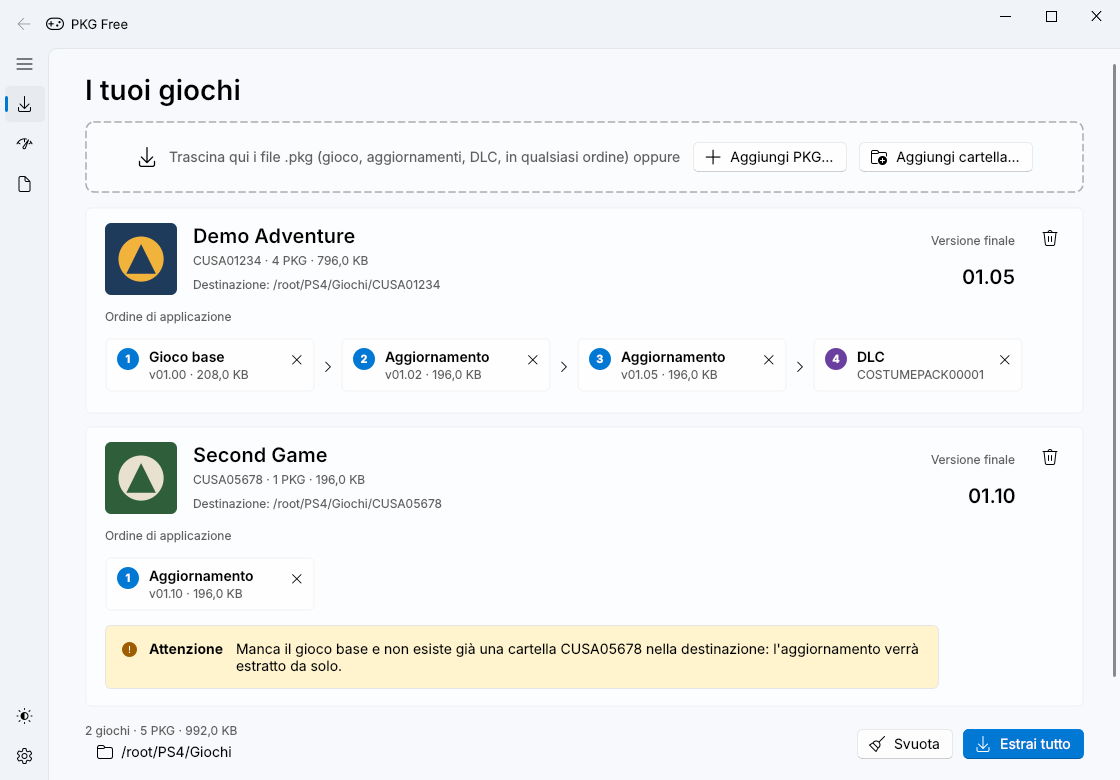
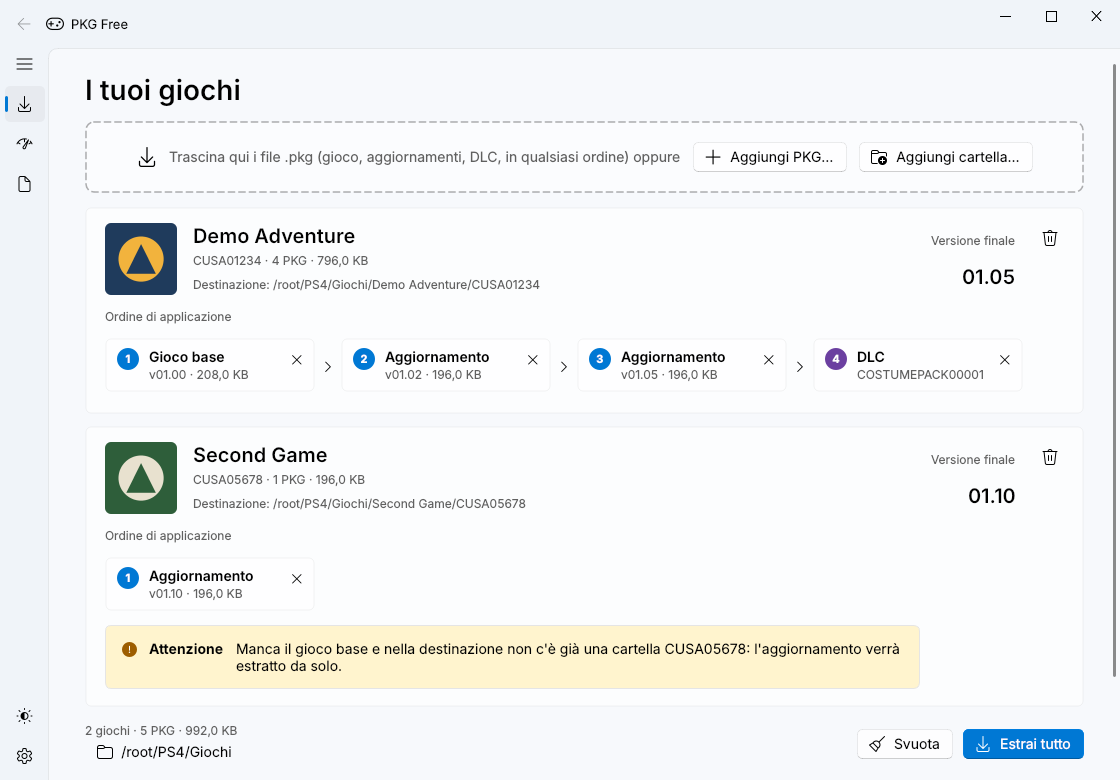
Put each game in a folder named after its title
New games are extracted to <games>/<title>/<TITLE_ID> (e.g.
Giochi/Driveclub/CUSA00003); shadPS4 scans subfolders and looks for
<game>-UPDATE next to the game folder, so it still finds both. Titles
are sanitised for Windows, Linux and macOS. A game already present
anywhere one level down (including the old <games>/<TITLE_ID> layout)
is reused, so updates never split a game in two. DLC keep shadPS4's
addcont/<TITLE_ID> layout. On by default; settings switch in the GUI
and --no-title-folder on the command line.

Also show Italian 'Attivo/Disattivo' on the settings switches, which
the library reset to 'On/Off' on every change.

Claude-Session: https://claude.ai/code/session_016d5jyj5MHJu7pfe2JRZaYf

diff --git a/pkgfree/installer.py b/pkgfree/installer.py
@@ -39,15 +39,50 @@ def _version_key(ver: str) -> tuple:
     return tuple(int(x) for x in re.findall(r"\d+", ver)) or (0,)
 
 
-def installed_version(games_dir: str, title_id: str) -> Optional[str]:
-    """APP_VER of the copy of title_id already in games_dir, if any.
+_INVALID_NAME_CHARS = re.compile(r'[<>"?*]')
+_WINDOWS_RESERVED = {"CON", "PRN", "AUX", "NUL", *(f"COM{i}" for i in range(1, 10)),
+                     *(f"LPT{i}" for i in range(1, 10))}
 
-    A separate update folder (as shadPS4 uses it) wins over the base folder.
-    """
+
+def safe_folder_name(title: str, fallback: str) -> str:
+    """A game title usable as a folder name on Windows, Linux and macOS."""
+    name = re.sub(r"[\x00-\x1f]", " ", title).replace(":", " -")
+    name = re.sub(r"[/\\|]", "-", name)
+    name = _INVALID_NAME_CHARS.sub("", name)
+    name = re.sub(r"\s+", " ", name).strip().rstrip(". ")[:80].rstrip(". ")
+    if not name:
+        return fallback
+    if name.upper() in _WINDOWS_RESERVED:
+        name += "_"
+    return name
+
+
+def find_game_dir(games_dir: str, title_id: str) -> Optional[str]:
+    """Folder of title_id already in games_dir: <games>/<ID> or <games>/<any name>/<ID>."""
     if not games_dir:
         return None
-    for folder in (f"{title_id}-UPDATE", f"{title_id}-patch", title_id):
-        sfo_path = os.path.join(games_dir, folder, "sce_sys", "param.sfo")
+    direct = os.path.join(games_dir, title_id)
+    if os.path.isdir(direct):
+        return direct
+    try:
+        entries = sorted(os.scandir(games_dir), key=lambda e: e.name)
+    except OSError:
+        return None
+    for entry in entries:
+        if entry.is_dir() and os.path.isdir(os.path.join(entry.path, title_id)):
+            return os.path.join(entry.path, title_id)
+    return None
+
+
+def installed_version(game_dir: Optional[str]) -> Optional[str]:
+    """APP_VER of the game installed in game_dir, if any.
+
+    A separate update folder next to it (as shadPS4 uses it) wins over the base folder.
+    """
+    if not game_dir:
+        return None
+    for folder in (f"{game_dir}-UPDATE", f"{game_dir}-patch", game_dir):
+        sfo_path = os.path.join(folder, "sce_sys", "param.sfo")
         try:
             with open(sfo_path, "rb") as f:
                 ver = parse_sfo(f.read()).get("APP_VER")
@@ -68,6 +103,7 @@ class TitleGroup:
     base: Optional[PkgInfo] = None
     patches: list[PkgInfo] = field(default_factory=list)
     dlcs: list[PkgInfo] = field(default_factory=list)
+    title_folder: bool = False
 
     def ordered(self) -> list[PkgInfo]:
         items = [self.base] if self.base else []
@@ -87,9 +123,19 @@ class TitleGroup:
         games = [i for i in self.ordered() if i.kind in ("game", "patch")]
         return games[-1].app_ver if games else ""
 
+    def game_dir(self, games_dir: str) -> str:
+        """Where the game goes: an existing copy wins, else <games>[/<title>]/<ID>."""
+        existing = find_game_dir(games_dir, self.title_id)
+        if existing:
+            return existing
+        if self.title_folder:
+            folder = safe_folder_name(self.title, self.title_id)
+            return os.path.join(games_dir, folder, self.title_id)
+        return os.path.join(games_dir, self.title_id)
+
     def downgrade(self, games_dir: str) -> Optional[str]:
         """Message when extracting would replace an installed copy with an older version."""
-        installed = installed_version(games_dir, self.title_id)
+        installed = installed_version(find_game_dir(games_dir, self.title_id))
         final = self.final_version
         if installed and final and _version_key(final) < _version_key(installed):
             return (f"Sul disco è già installata la versione {installed}: dopo l'estrazione il "
@@ -103,7 +149,7 @@ class TitleGroup:
         if down:
             out.append(down)
         elif self.patches and not self.base:
-            installed = installed_version(games_dir, self.title_id)
+            installed = installed_version(find_game_dir(games_dir, self.title_id))
             if installed and _version_key(installed) == _version_key(self.final_version):
                 out.append(f"La versione {installed} è già installata: la patch verrà "
                            "riapplicata sopra quella esistente.")
@@ -114,10 +160,11 @@ class TitleGroup:
                     "contiene i file completi e il risultato potrebbe non funzionare."
                 )
         if self.base is None and self.patches:
-            if not os.path.isfile(os.path.join(games_dir, self.title_id, "eboot.bin")):
+            existing = find_game_dir(games_dir, self.title_id)
+            if not existing or not os.path.isfile(os.path.join(existing, "eboot.bin")):
                 out.append(
-                    f"Manca il gioco base e non esiste già una cartella {self.title_id} nella "
-                    "destinazione: l'aggiornamento verrà estratto da solo."
+                    f"Manca il gioco base e nella destinazione non c'è già una cartella "
+                    f"{self.title_id}: l'aggiornamento verrà estratto da solo."
                 )
         return out
 
@@ -131,12 +178,18 @@ class Plan:
     def all_items(self) -> list[PkgInfo]:
         return [i for g in self.groups.values() for i in g.ordered()]
 
+    def target_dir(self, info: PkgInfo, games_dir: str, addons_dir: str,
+                   separate_update: bool) -> str:
+        group = self.groups[title_id_of(info)]
+        return target_dir(info, games_dir, addons_dir, separate_update, group.game_dir(games_dir))
 
-def build_plan(infos: list[PkgInfo], games_dir: str) -> Plan:
+
+def build_plan(infos: list[PkgInfo], games_dir: str, title_folder: bool = False) -> Plan:
+    """Group PKGs by game. title_folder: put new games in <games>/<title>/<ID>."""
     plan = Plan()
     for info in infos:
         tid = title_id_of(info)
-        group = plan.groups.setdefault(tid, TitleGroup(tid))
+        group = plan.groups.setdefault(tid, TitleGroup(tid, title_folder=title_folder))
         kind = info.kind
         name = os.path.basename(info.path)
         if kind == "game":
@@ -158,14 +211,17 @@ def build_plan(infos: list[PkgInfo], games_dir: str) -> Plan:
     return plan
 
 
-def target_dir(info: PkgInfo, games_dir: str, addons_dir: str, separate_update: bool) -> str:
+def target_dir(info: PkgInfo, games_dir: str, addons_dir: str, separate_update: bool,
+               game_dir: Optional[str] = None) -> str:
+    """Destination of one PKG. DLC always use shadPS4's <addons>/<ID>/<label> layout."""
     tid = title_id_of(info)
     if info.kind == "dlc":
         label = info.entitlement_label or info.content_id
         return os.path.join(addons_dir, tid, label)
+    game_dir = game_dir or os.path.join(games_dir, tid)
     if info.kind == "patch" and separate_update:
-        return os.path.join(games_dir, f"{tid}-UPDATE")
-    return os.path.join(games_dir, tid)
+        return f"{game_dir}-UPDATE"
+    return game_dir
 
 
 def install(
@@ -181,7 +237,7 @@ def install(
     """Extract every PKG of the plan. item_status(index, "start"|"done") marks each step."""
     items = plan.all_items()
     for idx, info in enumerate(items):
-        dest = target_dir(info, games_dir, addons_dir, separate_update)
+        dest = plan.target_dir(info, games_dir, addons_dir, separate_update)
         label = {"game": "Gioco base", "patch": "Aggiornamento", "dlc": "DLC"}[info.kind]
         ver = info.app_ver or info.version
         log(f"[{idx + 1}/{len(items)}] {label} {title_id_of(info)} v{ver}: "

diff --git a/tests/test_roundtrip.py b/tests/test_roundtrip.py
@@ -126,7 +126,8 @@ class RoundTrip(unittest.TestCase):
             return installer.build_plan([installer.read_info(self.p(n)) for n in names], games)
 
         installer.install(plan("base.pkg", "u103.pkg"), games, self.p("dlc"), **quiet)
-        self.assertEqual(installer.installed_version(games, "CUSA00006"), "01.03")
+        game_dir = installer.find_game_dir(games, "CUSA00006")
+        self.assertEqual(installer.installed_version(game_dir), "01.03")
 
         older = plan("u102.pkg")
         self.assertEqual(len(older.downgrades), 1)
@@ -145,6 +146,51 @@ class RoundTrip(unittest.TestCase):
             rc = cli.main(["install", self.p("u102.pkg"), "-o", games, "--force"])
         self.assertEqual(rc, 0)
         self.assertEqual(pathlib.Path(games, "CUSA00006", "eboot.bin").read_bytes(), b"v102")
+
+    def test_title_folder(self):
+        cid = "UP0000-CUSA00003_00-DRIVECLUBGAME000"
+        sfo = {"CATEGORY": "gd", "TITLE_ID": "CUSA00003", "APP_VER": "01.00",
+               "TITLE": "DRIVECLUB™: Edizione?"}
+        build_pkg(self.p("base.pkg"), cid, sfo, {"eboot.bin": b"v100"})
+        build_pkg(self.p("upd.pkg"), cid, dict(sfo, CATEGORY="gp", APP_VER="01.28"),
+                  {"eboot.bin": b"v128"})
+        build_pkg(self.p("dlc.pkg"), "UP0000-CUSA00003_00-DLCPACK000000001",
+                  {"CATEGORY": "ac", "TITLE_ID": "CUSA00003", "TITLE": "DLC"}, {"d": b"d"})
+        games, addons = self.p("games"), self.p("addcont")
+        quiet = dict(log=lambda m: None)
+
+        def plan(*names, **kw):
+            infos = [installer.read_info(self.p(n)) for n in names]
+            return installer.build_plan(infos, games, title_folder=True, **kw)
+
+        installer.install(plan("base.pkg", "dlc.pkg"), games, addons, **quiet)
+        root = pathlib.Path(games, "DRIVECLUB™ - Edizione", "CUSA00003")
+        self.assertEqual((root / "eboot.bin").read_bytes(), b"v100")
+        self.assertTrue(pathlib.Path(addons, "CUSA00003", "DLCPACK000000001", "d").is_file())
+
+        # A later update alone finds the game in its title folder.
+        p = plan("upd.pkg")
+        self.assertEqual(p.warnings, [])
+        installer.install(p, games, addons, separate_update=True, **quiet)
+        self.assertEqual(pathlib.Path(f"{root}-UPDATE", "eboot.bin").read_bytes(), b"v128")
+        self.assertEqual(installer.installed_version(str(root)), "01.28")
+
+        # A game already extracted the old way (<games>/<ID>) stays where it is.
+        old = pathlib.Path(self.p("games2"), "CUSA00003")
+        old.mkdir(parents=True)
+        infos = [installer.read_info(self.p("upd.pkg"))]
+        p2 = installer.build_plan(infos, self.p("games2"), title_folder=True)
+        self.assertEqual(p2.groups["CUSA00003"].game_dir(self.p("games2")), str(old))
+
+    def test_safe_folder_name(self):
+        name = installer.safe_folder_name
+        self.assertEqual(name("Marvel's Spider-Man: Miles Morales", "X"),
+                         "Marvel's Spider-Man - Miles Morales")
+        self.assertEqual(name('A/B\\C|D<E>"F?*', "X"), "A-B-C-DEF")
+        self.assertEqual(name("Title.  ", "X"), "Title")
+        self.assertEqual(name("Line1\nLine2", "X"), "Line1 Line2")
+        self.assertEqual(name("CON", "X"), "CON_")
+        self.assertEqual(name(" ?* ", "CUSA1"), "CUSA1")
 
     def test_separate_update(self):
         build_pkg(self.p("upd.pkg"), "UP0000-CUSA00002_00-GAMEGAMEGAME0000",

diff --git a/pkgfree/gui/settings_page.py b/pkgfree/gui/settings_page.py
@@ -17,6 +17,14 @@ from .config import cfg
 REPO_URL = "https://github.com/nanobuo/pkg-free"
 
 
+class ItalianSwitchSettingCard(SwitchSettingCard):
+    """SwitchSettingCard writes "On"/"Off" on every change; show Italian labels instead."""
+
+    def setValue(self, isChecked: bool):
+        super().setValue(isChecked)
+        self.switchButton.setText("Attivo" if isChecked else "Disattivo")
+
+
 class SettingsPage(QWidget):
     def __init__(self, parent=None):
         super().__init__(parent)
@@ -45,16 +53,21 @@ class SettingsPage(QWidget):
         self.addonsCard = PushSettingCard("Scegli cartella", FluentIcon.LIBRARY, "Cartella DLC",
                                           "", paths)
         self.addonsCard.clicked.connect(self._choose_addons)
-        self.mergeCard = SwitchSettingCard(
+        self.mergeCard = ItalianSwitchSettingCard(
             FluentIcon.SYNC, "Unisci gli aggiornamenti al gioco",
             "Se disattivato, gli aggiornamenti vengono estratti a parte in <TITLE_ID>-UPDATE",
             configItem=cfg.mergeUpdates, parent=paths)
-        self.mergeCard.switchButton.setOnText("Attivo")
-        self.mergeCard.switchButton.setOffText("Disattivo")
         self.mergeCard.setValue(cfg.get(cfg.mergeUpdates))
+        self.titleCard = ItalianSwitchSettingCard(
+            FluentIcon.TAG, "Cartella con il nome del gioco",
+            "Es. Giochi\\Driveclub\\CUSA00003: shadPS4 trova il gioco anche nella sottocartella. "
+            "I DLC restano in addcont\\<TITLE_ID>.",
+            configItem=cfg.titleFolder, parent=paths)
+        self.titleCard.setValue(cfg.get(cfg.titleFolder))
         paths.addSettingCard(self.gamesCard)
         paths.addSettingCard(self.addonsCard)
         paths.addSettingCard(self.mergeCard)
+        paths.addSettingCard(self.titleCard)
         lay.addWidget(paths)
 
         look = SettingCardGroup("Aspetto", view)

diff --git a/pkgfree/gui/extract_page.py b/pkgfree/gui/extract_page.py
@@ -97,7 +97,7 @@ class GameCard(SimpleCardWidget):
         col.addWidget(secondary(CaptionLabel(
             f"{group.title_id} · {len(items)} PKG · {fmt_size(total)}", self)))
         if games_dir:
-            dest = os.path.join(games_dir, group.title_id)
+            dest = group.game_dir(games_dir)
             col.addWidget(elastic(secondary(CaptionLabel(f"Destinazione: {dest}", self))))
         head.addLayout(col, 1)
 
@@ -210,11 +210,13 @@ class ExtractPage(QWidget):
 
         cfg.gamesDir.valueChanged.connect(lambda _: self.refresh())
         cfg.addonsDir.valueChanged.connect(lambda _: self.refresh())
+        cfg.titleFolder.valueChanged.connect(lambda _: self.refresh())
         self.refresh()
 
     # -- data --------------------------------------------------------------------
     def plan(self) -> installer.Plan:
-        return installer.build_plan(list(self.infos.values()), cfg.get(cfg.gamesDir))
+        return installer.build_plan(list(self.infos.values()), cfg.get(cfg.gamesDir),
+                                    cfg.get(cfg.titleFolder))
 
     def add_paths(self, paths) -> None:
         errors = []

diff --git a/pkgfree/cli.py b/pkgfree/cli.py
@@ -44,7 +44,7 @@ def _cmd_install(args) -> int:
     games = os.path.abspath(args.output)
     addons = os.path.abspath(args.addons or os.path.join(games, "addcont"))
     infos = [installer.read_info(p) for p in args.pkg]
-    plan = installer.build_plan(infos, games)
+    plan = installer.build_plan(infos, games, title_folder=not args.no_title_folder)
     for w in plan.warnings:
         print(f"ATTENZIONE: {w}")
     if plan.downgrades and not args.force:
@@ -91,6 +91,8 @@ def main(argv=None) -> int:
     p_inst.add_argument("--addons", help="cartella DLC (predefinita: <output>/addcont)")
     p_inst.add_argument("--separate-update", action="store_true",
                         help="estrai gli aggiornamenti in <TITLE_ID>-UPDATE invece di unirli")
+    p_inst.add_argument("--no-title-folder", action="store_true",
+                        help="estrai in <output>/<TITLE_ID> invece di <output>/<titolo>/<TITLE_ID>")
     p_inst.add_argument("--force", action="store_true",
                         help="procedi anche se sul disco c'è una versione più recente")
     p_inst.set_defaults(func=_cmd_install)

diff --git a/pkgfree/gui/window.py b/pkgfree/gui/window.py
@@ -61,7 +61,7 @@ class MainWindow(FluentWindow):
                           position=InfoBarPosition.TOP_RIGHT, parent=self)
             return
         existing = [g.title_id for g in plan.groups.values()
-                    if g.base and os.path.isdir(os.path.join(games, g.title_id))]
+                    if g.base and os.path.isdir(g.game_dir(games))]
         if plan.downgrades:
             box = MessageBox("Versione più vecchia",
                              "\n\n".join(plan.downgrades) +

diff --git a/tests/test_gui.py b/tests/test_gui.py
@@ -53,7 +53,7 @@ class GuiSmoke(unittest.TestCase):
             if w.worker.isRunning():
                 loop.exec()
             app.processEvents()
-            game = pathlib.Path(d, "games", "CUSA00007")
+            game = pathlib.Path(d, "games", "Gui Test", "CUSA00007")
             self.assertEqual((game / "eboot.bin").read_bytes(), b"new")
             self.assertEqual((game / "a.txt").read_bytes(), b"a")
             self.assertEqual(w.progressPage.title.text(), "Estrazione completata")

diff --git a/pkgfree/gui/config.py b/pkgfree/gui/config.py
@@ -18,6 +18,7 @@ class Config(QConfig):
     addonsDir = ConfigItem("Paths", "AddonsDir", "")
     lastDir = ConfigItem("Paths", "LastDir", "")
     mergeUpdates = ConfigItem("Extraction", "MergeUpdates", True, BoolValidator())
+    titleFolder = ConfigItem("Extraction", "TitleFolder", True, BoolValidator())
 
     def addons_dir_for(self, games_dir: str) -> str:
         return self.get(self.addonsDir) or os.path.join(games_dir, "addcont")

diff --git a/pkgfree/gui/progress_page.py b/pkgfree/gui/progress_page.py
@@ -189,7 +189,7 @@ class ProgressPage(QWidget):
         items = plan.all_items()
         self.rows = []
         for info in items:
-            dest = installer.target_dir(info, games_dir, addons_dir, separate_update)
+            dest = plan.target_dir(info, games_dir, addons_dir, separate_update)
             row = QueueRow(info, dest, games_dir, self)
             self.queue.addWidget(row)
             self.rows.append(row)

diff --git a/pkgfree/__init__.py b/pkgfree/__init__.py
@@ -1,3 +1,3 @@
 """PKG Free: estrattore di PKG PS4 (fPKG) per shadPS4."""
 
-__version__ = "1.2.0"
+__version__ = "1.3.0"

diff --git a/README.md b/README.md
@@ -74,9 +74,17 @@ oppure **Impostazioni → Aspetto → Tema** con le opzioni *Chiaro*, *Scuro* e
 Risultato:
 
 ```
-<cartella giochi>\CUSA12345\                        gioco + tutti gli aggiornamenti
+<cartella giochi>\<Titolo>\CUSA12345\               gioco + tutti gli aggiornamenti
 <cartella DLC>\CUSA12345\<ENTITLEMENT_LABEL>\       un DLC per cartella
 ```
+
+La cartella `<Titolo>` (es. `Giochi\Driveclub\CUSA00003`) serve solo a
+riconoscere il gioco a colpo d'occhio: shadPS4 cerca i giochi anche nelle
+sottocartelle. Si può disattivare in **Impostazioni → Cartella con il nome del
+gioco** (da riga di comando: `--no-title-folder`). Se un gioco è già stato
+estratto altrove nella cartella giochi (es. `Giochi\CUSA00003`), aggiornamenti
+e patch vengono applicati lì. I DLC restano in `addcont\CUSA12345`, dove
+shadPS4 li cerca.
 
 In shadPS4:
 
@@ -88,7 +96,7 @@ In shadPS4:
 
 Opzione **Impostazioni → Unisci gli aggiornamenti al gioco** (attiva di
 default): se la disattivi, le patch vengono estratte in `CUSA12345-UPDATE`
-accanto al gioco, formato che shadPS4 riconosce e sovrappone al gioco base
+accanto alla cartella del gioco, formato che shadPS4 riconosce e sovrappone al gioco base
 all'avvio. Le impostazioni sono salvate in `%APPDATA%\PkgFree\config.json`
 (su Linux e macOS in `~/.config/PkgFree/config.json`).
 
